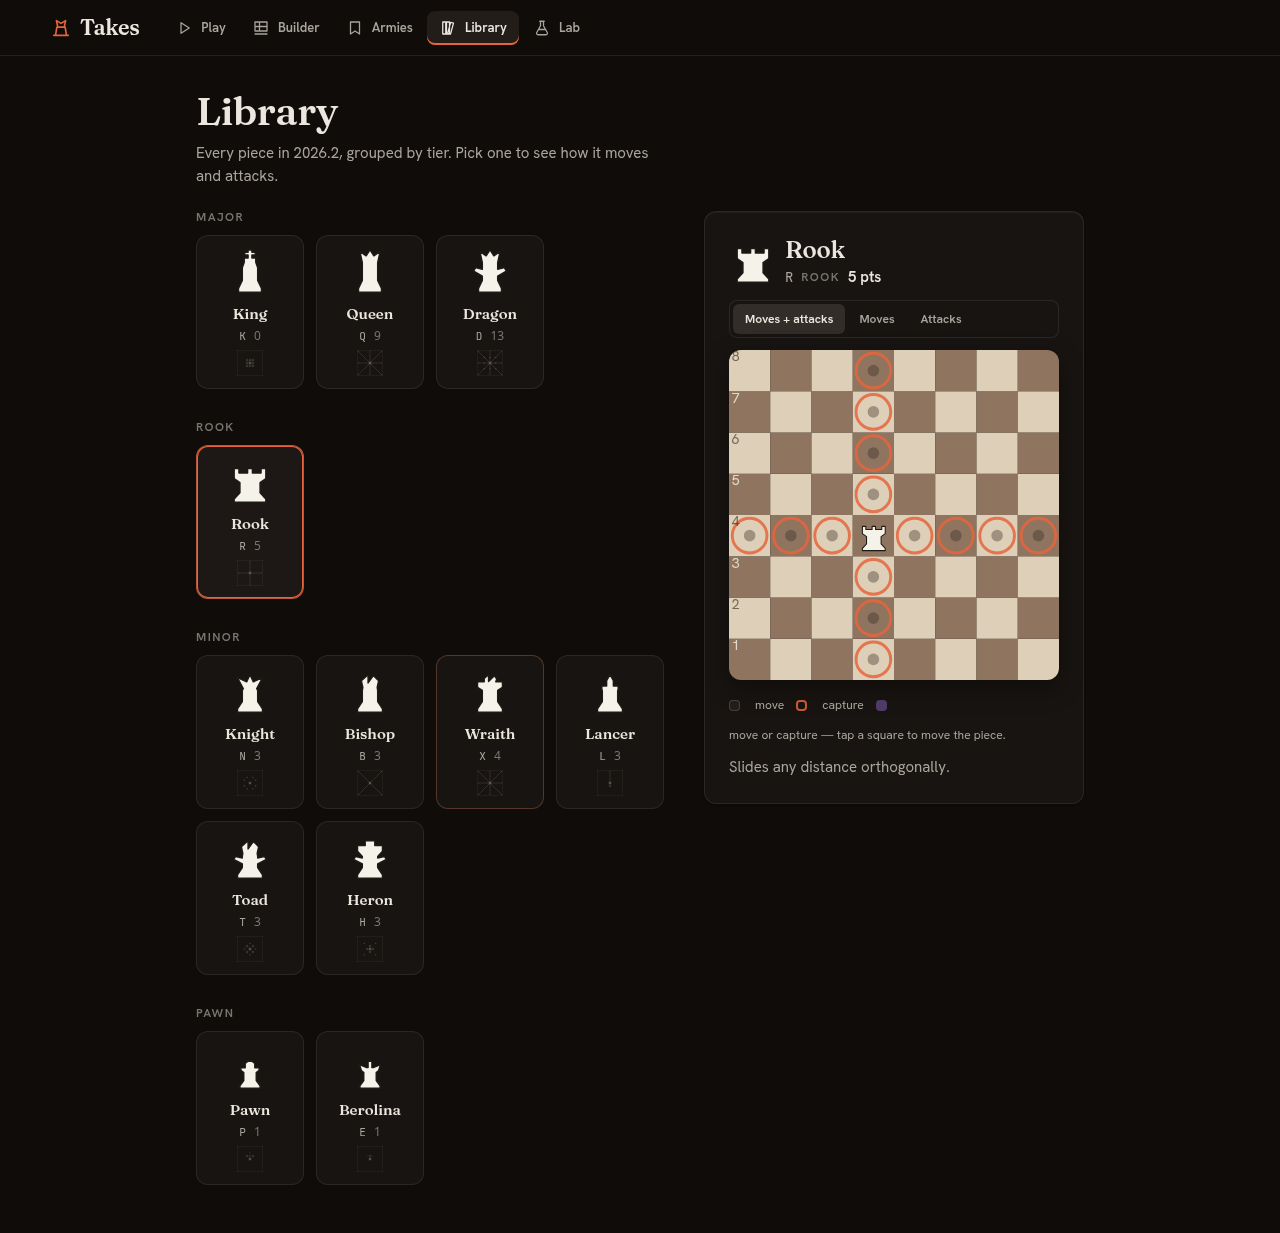
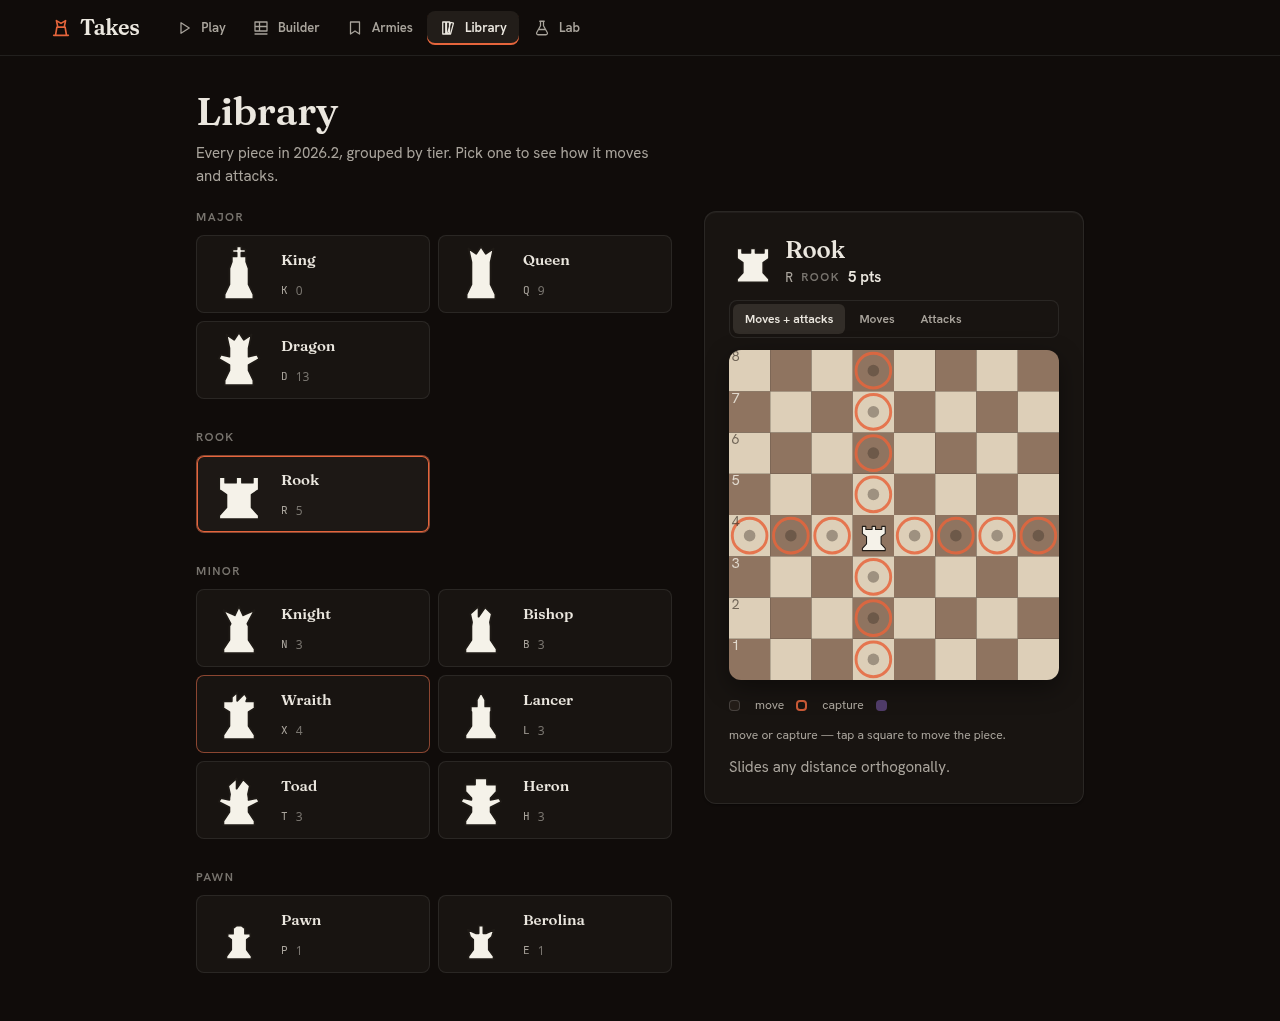
web: builder/armies/library/lab polish pass 2
- Builder: board scales to fill zone (desktop ~560-640px, phone full
  width, squares >=44px on phone); castling partners shown as a short
  caption ("Castles with a1 and h1") instead of crude files text;
  issues list keeps a 'Ready to save' good chip when valid; toolbar
  and save row alignment tightened.
- Armies (Profiles): phone action row collapses to Edit + an overflow
  (...) menu for Duplicate/Rename/Copy string/Delete, no overflow at
  390px; desktop unchanged.
- Library: piece tiles are compact with larger art (60px), name and
  cost; unreadable move-pattern badge dropped; phone uses a two-column
  tile grid, inspector below.
- Lab (Candidates): intro paragraph shortened, null-control detail
  moved into an info disclosure; list rows/art/truncation unchanged
  (already met spec).

Fixed a pre-existing grid/flex shrink bug surfaced by the larger
builder board: .builder-grid and .board-zone/.board-center now allow
min-width:0 so the board shrinks to its track instead of overflowing
the page on narrow viewports.

Verified: pnpm check (tsc + svelte-check 0/0), pnpm test (316 passed),
pnpm --filter @takes/web build; verify.cjs, verify-library.cjs,
verify-candidates.cjs all PASS desktop+phone; shoot-all.cjs rerun.

diff --git a/apps/web/src/components/Builder.svelte b/apps/web/src/components/Builder.svelte
@@ -243,13 +243,21 @@
   const isNarrow = $derived(viewportWidth < 960);
   const cellSize = $derived.by(() => {
     const railW = isNarrow ? 0 : 320;
-    const available = Math.min(viewportWidth - railW - 96, viewportHeight * 0.62, 560);
-    return Math.max(32, Math.floor(available / 8));
+    const sidePad = isNarrow ? 24 : 96;
+    const available = Math.min(viewportWidth - railW - sidePad, viewportHeight * 0.72, 640);
+    return Math.max(isNarrow ? 44 : 56, Math.floor(available / 8));
   });
 
   function squareName(sq: number): string {
     return `${'abcdefgh'[sq % 8]}${Math.floor(sq / 8) + 1}`;
   }
+
+  const castlingCaption = $derived.by(() => {
+    const names = [...castlingFiles].sort((a, b) => a - b).map((f) => squareName(f));
+    if (!names.length) return null;
+    if (names.length === 1) return `Castles with ${names[0]}`;
+    return `Castles with ${names.join(' and ')}`;
+  });
 </script>
 
 <div class="page builder-page">
@@ -284,14 +292,12 @@
         </div>
       </div>
 
-      <p class="hint muted">
-        Castling partners (rook-tier near king): files
-        {#if castlingFiles.size}
-          <span class="mono">{[...castlingFiles].map((f) => 'abcdefgh'[f]).join(', ')}</span>
-        {:else}
-          none
-        {/if}
-      </p>
+      {#if castlingCaption}
+        <p class="hint muted castle-caption">
+          <span class="castle-glyph" aria-hidden="true">♜</span>
+          {castlingCaption}
+        </p>
+      {/if}
 
       {#if issues.length}
         <ul class="issues stack">
@@ -306,6 +312,9 @@
             </li>
           {/each}
         </ul>
+      {/if}
+      {#if !hasErrors(issues)}
+        <p class="hint muted"><span class="chip good">Ready to save</span></p>
       {/if}
 
       <div class="toolbar row">
@@ -393,9 +402,9 @@
 {/if}
 
 <style>
-  .builder-grid { display: grid; grid-template-columns: 1fr 300px; gap: var(--s-5); align-items: start; }
-  .board-zone { padding: var(--s-5); display: grid; gap: var(--s-4); }
-  .board-center { display: flex; justify-content: center; }
+  .builder-grid { display: grid; grid-template-columns: minmax(0, 1fr) 300px; gap: var(--s-5); align-items: start; }
+  .board-zone { padding: var(--s-5); display: grid; gap: var(--s-4); min-width: 0; }
+  .board-center { display: flex; justify-content: center; min-width: 0; }
 
   .budget-wrap { display: grid; gap: var(--s-2); }
   .budget-row { justify-content: space-between; }
@@ -406,16 +415,19 @@
   .budget-fill.over { background: var(--bad); }
 
   .hint { font-size: var(--fs-sm); margin: 0; }
+  .castle-caption { display: flex; align-items: center; gap: var(--s-2); }
+  .castle-glyph { color: var(--accent); font-size: var(--fs-md); line-height: 1; }
 
   .issues { list-style: none; padding: 0; margin: 0; }
   .issues li { display: flex; align-items: center; gap: var(--s-2); font-size: var(--fs-sm); padding: var(--s-1) 0; cursor: default; }
   .issue-msg { color: var(--text-muted); }
   .issues li.error .issue-msg { color: var(--text); }
 
-  .toolbar { flex-wrap: wrap; }
+  .divider { border-top: 1px solid var(--line); margin: 0; }
+  .toolbar { flex-wrap: wrap; align-items: center; }
   .setup-io { flex-wrap: nowrap; }
   .setup-io input { flex: 1; min-width: 0; }
-  .save-row { flex-wrap: nowrap; }
+  .save-row { flex-wrap: nowrap; align-items: center; }
   .save-row input { flex: 1; min-width: 0; }
 
   .palette-rail { padding: var(--s-4); display: grid; gap: var(--s-4); align-content: start; position: sticky; top: 72px; max-height: calc(100vh - 96px); overflow-y: auto; }
@@ -441,5 +453,6 @@
   @media (max-width: 960px) {
     .builder-grid { grid-template-columns: 1fr; }
     .palette-rail { position: static; max-height: none; }
+    .board-zone { padding: var(--s-3); }
   }
 </style>

diff --git a/apps/web/src/components/Profiles.svelte b/apps/web/src/components/Profiles.svelte
@@ -114,10 +114,19 @@
           </div>
           <div class="army-actions row">
             <a class="btn sm" href={routeHref('builder', p.id)}>Edit</a>
-            <button class="btn sm ghost" onclick={() => refresh(duplicateProfile(p.id))}>Duplicate</button>
-            <button class="btn sm ghost" onclick={() => rename(p)}>Rename</button>
-            <button class="btn sm ghost" onclick={() => copy(p)}>Copy string</button>
-            <button class="btn sm danger ghost" onclick={() => remove(p)}>Delete</button>
+            <button class="btn sm ghost action-extra" onclick={() => refresh(duplicateProfile(p.id))}>Duplicate</button>
+            <button class="btn sm ghost action-extra" onclick={() => rename(p)}>Rename</button>
+            <button class="btn sm ghost action-extra" onclick={() => copy(p)}>Copy string</button>
+            <button class="btn sm danger ghost action-extra" onclick={() => remove(p)}>Delete</button>
+            <details class="overflow-menu">
+              <summary class="btn sm ghost overflow-toggle" aria-label="More actions for {p.name}">⋯</summary>
+              <div class="overflow-panel">
+                <button class="menu-item" onclick={() => refresh(duplicateProfile(p.id))}>Duplicate</button>
+                <button class="menu-item" onclick={() => rename(p)}>Rename</button>
+                <button class="menu-item" onclick={() => copy(p)}>Copy string</button>
+                <button class="menu-item danger" onclick={() => remove(p)}>Delete</button>
+              </div>
+            </details>
           </div>
         </li>
       {/each}
@@ -146,10 +155,26 @@
   .army-info { display: grid; gap: 4px; min-width: 0; }
   .army-name { font: 600 var(--fs-md)/1.2 var(--font-ui); }
   .setup-str { display: block; font-size: var(--fs-xs); overflow: hidden; text-overflow: ellipsis; white-space: nowrap; }
-  .army-actions { flex-wrap: nowrap; justify-content: flex-end; }
+  .army-actions { flex-wrap: nowrap; justify-content: flex-end; position: relative; }
+  .overflow-menu { display: none; position: relative; }
+  .overflow-toggle { padding: 0 var(--s-2); font-weight: 700; }
+  .overflow-toggle::-webkit-details-marker { display: none; }
+  .overflow-panel {
+    position: absolute; right: 0; top: calc(100% + 4px); z-index: 5; display: grid; min-width: 160px;
+    background: var(--ink-2); border: 1px solid var(--line); border-radius: var(--r-2); box-shadow: var(--shadow-2);
+    overflow: hidden;
+  }
+  .menu-item {
+    appearance: none; background: transparent; border: 0; color: var(--text); text-align: left; cursor: pointer;
+    padding: var(--s-2) var(--s-3); font: 500 var(--fs-sm)/1.2 var(--font-ui); min-height: var(--tap);
+  }
+  .menu-item:hover { background: var(--ink-3); }
+  .menu-item.danger { color: var(--bad); }
   @media (max-width: 720px) {
     .army-row { grid-template-columns: auto 1fr; }
     .army-actions { grid-column: 1 / -1; justify-content: flex-start; }
+    .action-extra { display: none; }
+    .overflow-menu { display: block; }
   }
   .import-panel { padding: var(--s-4); }
   .import-panel .row { flex-wrap: nowrap; }

diff --git a/apps/web/src/components/explore/PieceTile.svelte b/apps/web/src/components/explore/PieceTile.svelte
@@ -21,7 +21,7 @@
 </script>
 
 <button class="piece-card" class:selected data-testid="piece-tile" {onclick}>
-  <PieceIcon svg={art} size={48} />
+  <PieceIcon svg={art} size={60} />
   <span class="name">{piece.name}</span>
   <span class="row meta">
     <span class="glyph mono">{piece.glyph}</span>
@@ -32,16 +32,17 @@
 
 <style>
   .piece-card {
-    display: grid; grid-template-columns: 1fr; justify-items: center; gap: 4px;
-    background: var(--ink-1); border: 1px solid var(--line); border-radius: var(--r-3);
-    padding: var(--s-3) var(--s-2); min-width: 108px; cursor: pointer; text-align: center;
+    display: grid; grid-template-columns: auto 1fr; grid-template-rows: auto auto; align-items: center;
+    column-gap: var(--s-3); row-gap: 2px;
+    background: var(--ink-1); border: 1px solid var(--line); border-radius: var(--r-2);
+    padding: var(--s-2) var(--s-3); min-width: 0; width: 100%; cursor: pointer; text-align: left;
     color: var(--text); transition: border-color var(--t-fast) var(--ease), background var(--t-fast) var(--ease);
   }
   .piece-card:hover { background: var(--ink-2); }
   .piece-card.selected { border-color: var(--accent); box-shadow: 0 0 0 1px var(--accent) inset; }
-  .name { font-family: var(--font-display); font-size: var(--fs-md); font-weight: 560; margin-top: var(--s-1); }
+  .piece-card :global(.piece-icon) { grid-row: 1 / 3; flex-shrink: 0; }
+  .name { font-family: var(--font-display); font-size: var(--fs-md); font-weight: 560; }
   .meta { gap: var(--s-2); color: var(--text-faint); font-size: var(--fs-xs); }
   .glyph { color: var(--text-muted); }
-  .badge { display: block; width: 26px; height: 26px; margin-top: 2px; opacity: 0.85; --piece-fill: var(--text-faint); --piece-stroke: var(--text-faint); }
-  .badge :global(svg) { width: 100%; height: 100%; display: block; }
+  .badge { display: none; }
 </style>

diff --git a/apps/web/src/components/Candidates.svelte b/apps/web/src/components/Candidates.svelte
@@ -114,11 +114,16 @@
   <div class="page-head">
     <div>
       <h1>Candidates</h1>
-      <p class="intro">
-        {candidates.length} screened pieces from the catalog. <b>Strength</b> is score minus the slot's null control
-        (the replaced piece itself injected as a new piece: {Object.entries(nullScore).map(([t, s]) => `${t} ${s.toFixed(2)}`).join(', ')}).
-        Roughly ±0.15 is noise at 40 games, ±0.08 at 160.
-      </p>
+      <div class="intro">
+        {candidates.length} screened pieces from the catalog. <b>Strength</b> is score minus the slot's null baseline.
+        <details class="info-disclosure">
+          <summary>What's "null control"?</summary>
+          <p class="faint">
+            The replaced piece itself injected as a new piece: {Object.entries(nullScore).map(([t, s]) => `${t} ${s.toFixed(2)}`).join(', ')}.
+            Roughly ±0.15 is noise at 40 games, ±0.08 at 160.
+          </p>
+        </details>
+      </div>
     </div>
     <button class="btn" onclick={doExport}>Export verdicts</button>
   </div>
@@ -231,6 +236,9 @@
 <style>
   .candidates { max-width: var(--content-max); margin: 0 auto; }
   .intro { max-width: 70ch; }
+  .info-disclosure { margin-top: var(--s-1); font-size: var(--fs-sm); }
+  .info-disclosure summary { cursor: pointer; color: var(--text-muted); }
+  .info-disclosure p { margin: var(--s-1) 0 0; max-width: 60ch; }
   .filters { margin-top: var(--s-2); }
   .filters .select { width: auto; min-width: 140px; }
   .symmetry-toggle { display: inline-flex; align-items: center; gap: 6px; font-size: var(--fs-sm); color: var(--text-muted); cursor: pointer; }

diff --git a/apps/web/src/components/Library.svelte b/apps/web/src/components/Library.svelte
@@ -74,12 +74,13 @@
   .library { max-width: var(--content-max); margin: 0 auto; }
   .explore { display: grid; grid-template-columns: 1fr minmax(300px, 380px); gap: var(--s-6); align-items: start; }
   .tiers { gap: var(--s-6); }
-  .palette { display: flex; flex-wrap: wrap; gap: var(--s-3); }
+  .palette { display: grid; grid-template-columns: repeat(auto-fill, minmax(200px, 1fr)); gap: var(--s-2); }
   .inspector-pane { position: sticky; top: var(--s-5); padding: var(--s-5); min-height: 120px; }
   .inspector-pane.empty { display: flex; align-items: center; justify-content: center; }
 
   @media (max-width: 860px) {
     .explore { grid-template-columns: 1fr; }
     .inspector-pane { position: static; }
+    .palette { grid-template-columns: repeat(2, 1fr); }
   }
 </style>
